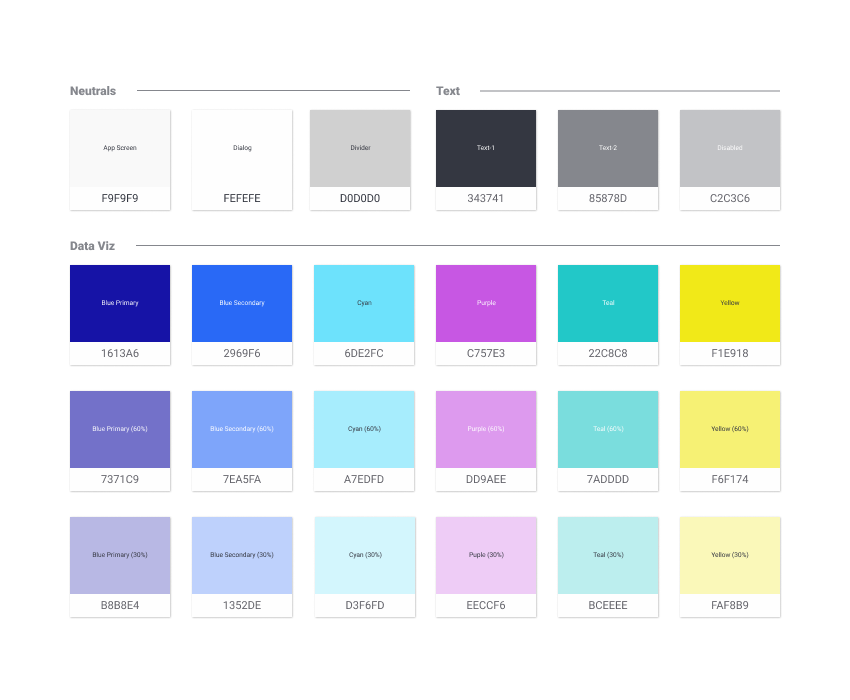
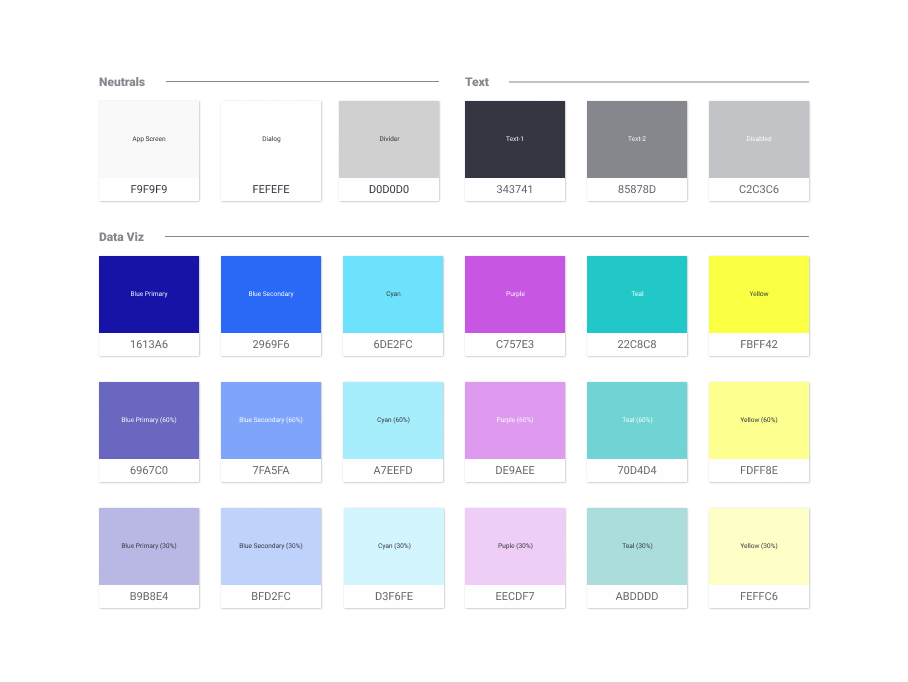
save

diff --git a/projects/dashboard-1.html b/projects/dashboard-1.html
@@ -316,23 +316,23 @@
             <span class="font-caption">Improved circle charts (composition/static/pie &amp donut)</span>
           </a>
         </div>
-        <div>
-          <h4>Column graphs</h4>
-          <a target="_blank" href="../assets/images/projects/dashboard-1/large_data-viz-2.png">
-            <img src="../assets/images/projects/dashboard-1/large_data-viz-2.png" alt="improved large data visualizations">
-            <span class="font-caption">Improved column graphs (comparison/static/column/standard &amp grouped)</span>
-          </a>
-        </div>
+      </div>
+      <div>
+        <h4>Column graphs</h4>
+        <a target="_blank" href="../assets/images/projects/dashboard-1/large_data-viz-2.png">
+          <img src="../assets/images/projects/dashboard-1/large_data-viz-2.png" alt="improved large data visualizations">
+          <span class="font-caption">Improved column graphs (comparison/static/column/standard &amp grouped)</span>
+        </a>
       </div>
     </div>
     <div class="row" id="row-visualization-new">
-      <h2><span>Improved Visualizations</span></h2>
+      <h2><span>New Visualizations</span></h2>
       <div class="row-50_50-prim">
         <div>
           <h4>Heatmap</h4>
           <a target="_blank" href="../assets/images/projects/dashboard-1/heatmap.png">
             <img src="../assets/images/projects/dashboard-1/heatmap.png" alt="improved large data visualizations">
-            <span class="font-caption">Heatmap visualization (composition/static/heatmap)</span>
+            <span class="font-caption">Heatmap visualization (composition/static/heatmap) - directly inspired by Github's heatmap</span>
           </a>
         </div>
         <div>
@@ -340,6 +340,25 @@
           <a target="_blank" href="../assets/images/projects/dashboard-1/sunburst.png">
             <img src="../assets/images/projects/dashboard-1/sunburst.png" alt="sunburst graph">
             <span class="font-caption">Sunburst graph (composition/static/sunburst)</span>
+          </a>
+        </div>
+      </div>
+    </div>
+    <div class="row" id="row-visual">
+      <h2><span>Visual Assets</span></h2>
+      <div class="row-50_50-prim">
+        <div>
+          <h4>Color styles</h4>
+          <a target="_blank" href="../assets/images/projects/dashboard-1/colors.png">
+            <img src="../assets/images/projects/dashboard-1/colors.png" alt="Color styles">
+            <span class="font-caption">Dashboard color styles</span>
+          </a>
+        </div>
+        <div>
+          <h4>Font styles</h4>
+          <a target="_blank" href="../assets/images/projects/dashboard-1/fonts.png">
+            <img src="../assets/images/projects/dashboard-1/fonts.png" alt="sfont styles">
+            <span class="font-caption">Font styles</span>
           </a>
         </div>
       </div>

diff --git a/assets/css/projects/dashboard-1/style.css b/assets/css/projects/dashboard-1/style.css
@@ -676,6 +676,17 @@ mark {
 #row-visualization-new .row-50_50-prim div a img:hover {
   border: 2px solid #2E69FF;
 }
+#row-visual .row-50_50-prim {
+  grid-gap: 2em;
+  margin-bottom: 2em;
+}
+#row-visual .row-50_50-prim div a img {
+  width: 100%;
+  border: 2px solid #E5E5E5;
+}
+#row-visual .row-50_50-prim div a img:hover {
+  border: 2px solid #2E69FF;
+}
 /*--Importantants--*/
 #visible-while-mobile_h1 {
   display: none;

diff --git a/assets/css/projects/dashboard-1/style.less b/assets/css/projects/dashboard-1/style.less
@@ -676,6 +676,24 @@ mark{
     }
   }
 }
+#row-visual{
+  .row-50_50-prim{
+    grid-gap:2em;
+    margin-bottom:2em;
+    div{
+      a{
+        img{
+          width:100%;
+          border:2px solid #E5E5E5;
+          &:hover{
+            border:2px solid @color-hyperlink;
+          }
+        }
+      }
+    }
+  }
+}
+
 
 /*--Importantants--*/
 
